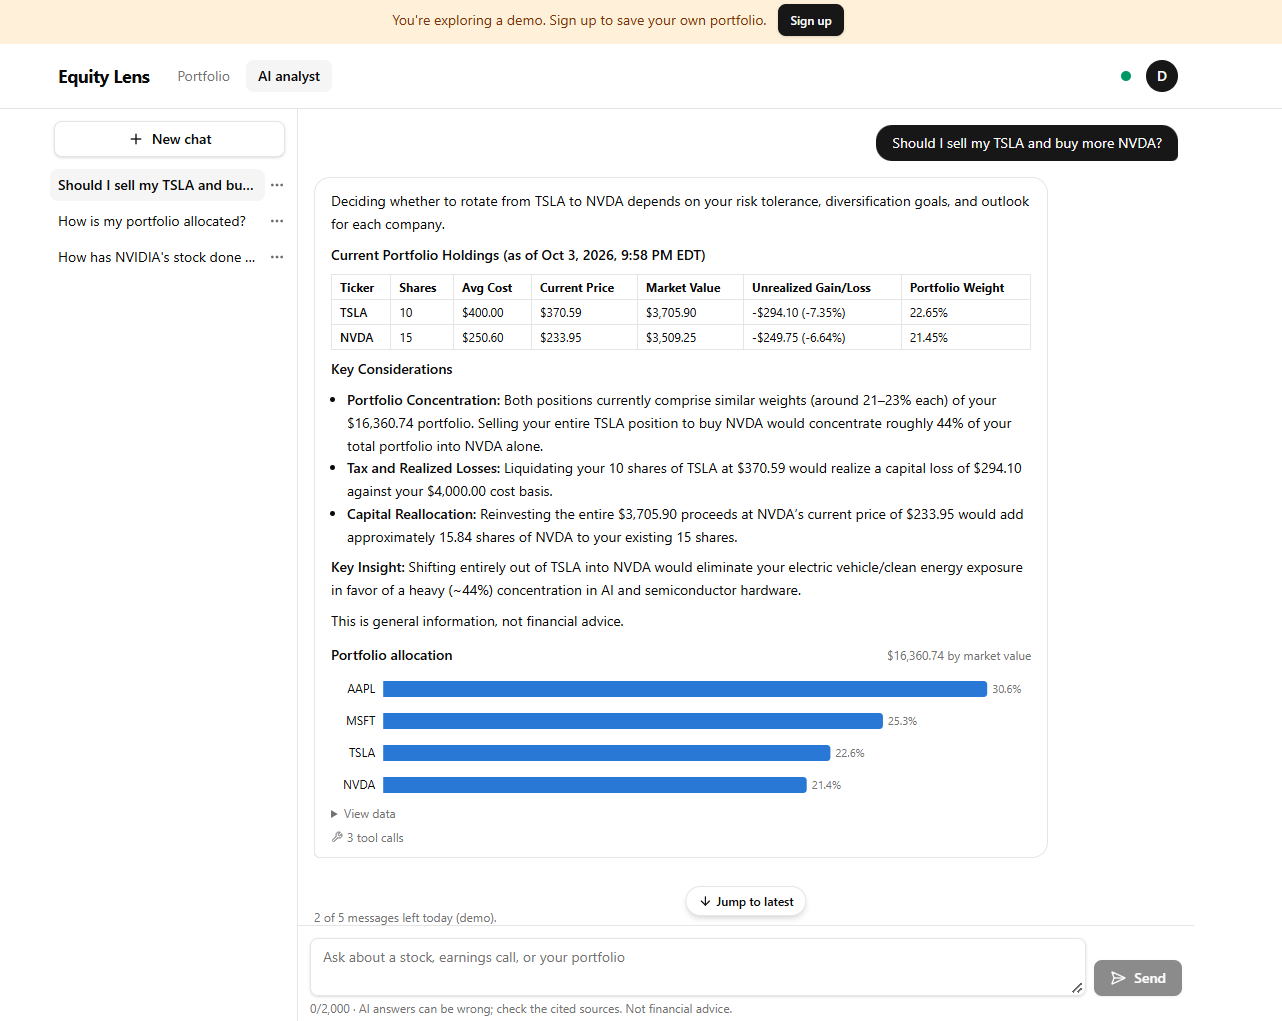
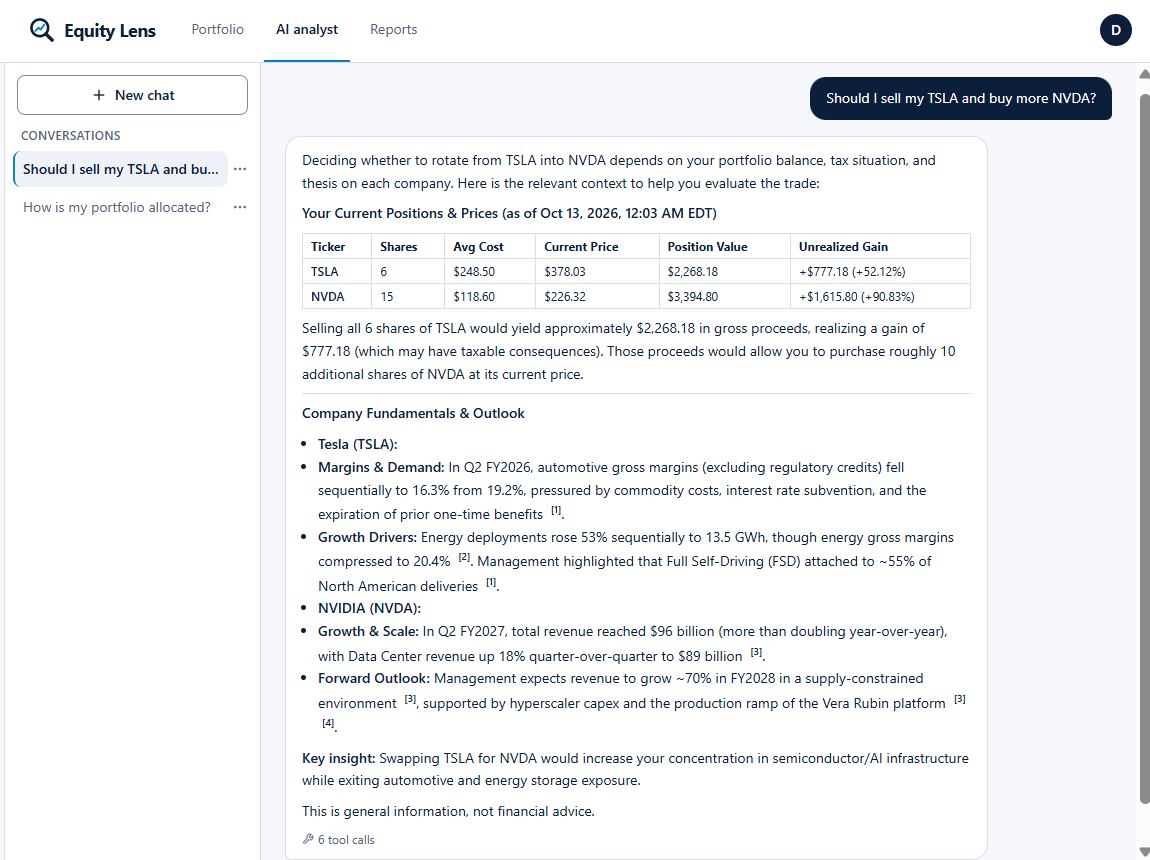
docs: update README screenshots and their alt text
New screenshots of the redesigned UI, same file names. Alt text now
matches what each one shows: five positions on the dashboard, the price
table in the chat answer, the citation dialog, the reworded guardrail
answer, the COST report in progress and the portfolio insight.

diff --git a/README.md b/README.md
@@ -9,8 +9,8 @@ companies, earnings calls and your holdings, with every claim cited.
 Click **Try demo**; no sign-up needed.
 
 <p align="center">
-  <img src="docs/images/dashboard.png" width="63%" alt="Portfolio dashboard in demo mode: total value, total gain/loss, today's change and holdings count above a table of AAPL, MSFT, TSLA and NVDA positions with expandable lots, average buy price, live price, market value and gains in green or red">
-  <img src="docs/images/chat-answer.png" width="34%" alt="AI analyst answer to how NVIDIA's stock did over six months and what management said about data center demand: price figures, bullet points with inline citation markers from the latest earnings call, and a six-month NVDA price chart">
+  <img src="docs/images/dashboard.png" width="63%" alt="Portfolio dashboard in demo mode: total value, total gain/loss, today's change and holdings count above a table of AAPL, MSFT, NVDA, VOO and TSLA positions with expandable lots, average buy price, current price, market value, gain/loss and today's change in green or red">
+  <img src="docs/images/chat-answer.png" width="34%" alt="AI analyst answer to how NVIDIA's stock did over six months and what management said about data center demand: a table of start, end, low and high prices, bullet points with inline citation markers from the latest earnings call, and a six-month NVDA price chart">
 </p>
 
 ## Features
@@ -23,8 +23,8 @@ Click **Try demo**; no sign-up needed.
   buy/sell advice.
 
   <p>
-    <img src="docs/images/citation-source.png" width="44%" alt="Citation popover over a chat answer showing source [1]: the Nvidia Q2 FY2027 earnings call, dated 2026-08-26, prepared remarks by CFO Colette Kress, with the full quoted transcript passage">
-    <img src="docs/images/guardrail.png" width="53%" alt="The analyst answering 'Should I sell my TSLA and buy more NVDA?' without a recommendation: a table of both positions, the concentration, realized-loss and reallocation figures, an allocation chart, and a not-financial-advice note">
+    <img src="docs/images/citation-source.png" width="44%" alt="Citation dialog over a chat answer showing source [1]: NVIDIA Corporation's Q2 FY2027 earnings call on Aug 26, 2026, prepared remarks by CFO Colette Kress, with the full quoted transcript passage">
+    <img src="docs/images/guardrail.png" width="53%" alt="The analyst answering 'Should I sell my TSLA and buy more NVDA?' without a recommendation: a table of both positions, the sale proceeds and taxable gain, cited fundamentals for both companies, a note on concentration, and a not-financial-advice line">
   </p>
 
 - **Earnings-call search (RAG).** Hybrid dense + keyword search over each
@@ -52,7 +52,7 @@ Click **Try demo**; no sign-up needed.
   (about $0.06 and 45–102 s each, measured), and demo users can view them.
   [How it works](docs/architecture.md#research-reports).
 
-  <img src="docs/images/report-progress.png" width="600" alt="A report generating for AMD: transcript research done (19 passages from Q2 FY2026 and Q1 FY2026), price data analyzed (3 data sources), and the writer still running">
+  <img src="docs/images/report-progress.png" width="600" alt="A report generating for Costco (COST): transcript research done (15 passages from Q3 FY2026 and Q2 FY2026), price data analyzed (3 data sources), and the writer still running">
 
   <img src="docs/images/report.png" width="600" alt="Research report for Microsoft Corporation (MSFT) based on the Q4 FY2026 earnings call, compared with Q3 FY2026: generation, call, quote and price dates, then a summary and demand and business drivers with inline citation markers">
 
@@ -60,7 +60,7 @@ Click **Try demo**; no sign-up needed.
   never from numbers the model wrote. They stream in with the answer and are
   saved with the conversation.
 
-  <img src="docs/images/portfolio-chat.png" width="600" alt="The analyst answering 'How is my portfolio allocated?' with a table of each holding's shares, market value, weight, gain/loss and return, a one-line insight, and a horizontal bar chart of portfolio weights">
+  <img src="docs/images/portfolio-chat.png" width="600" alt="The analyst answering 'How is my portfolio allocated?' with a table of each holding's shares, market value, weight, gain and return, a short insight on tech concentration, and a horizontal bar chart of portfolio weights">
 
 - **Portfolio tracking.** Lots grouped into positions with average cost,
   gain/loss and today's change. Live quotes come from Finnhub, with a yfinance
